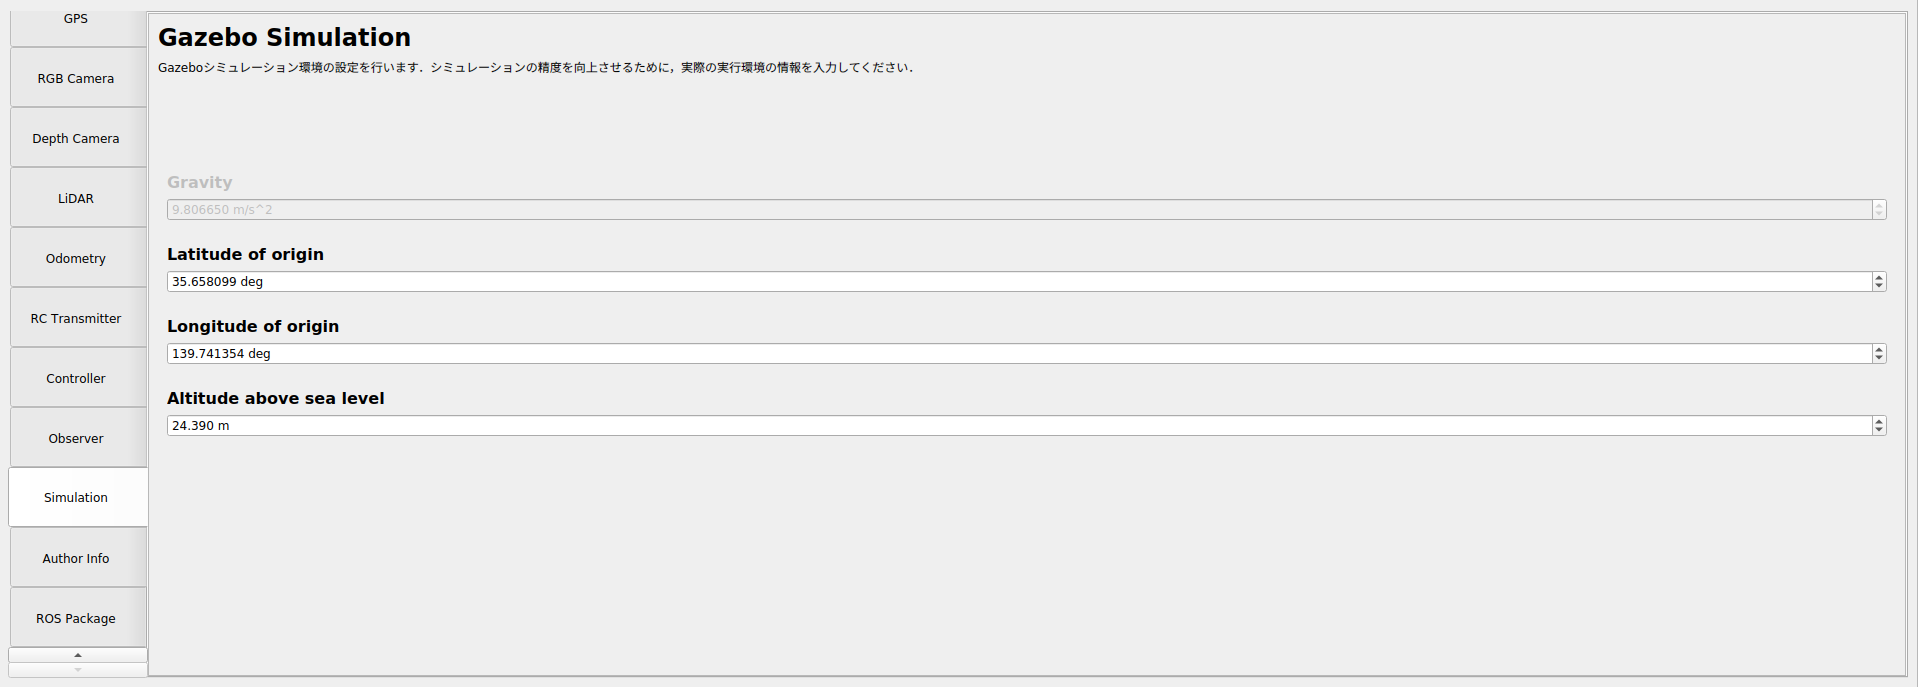
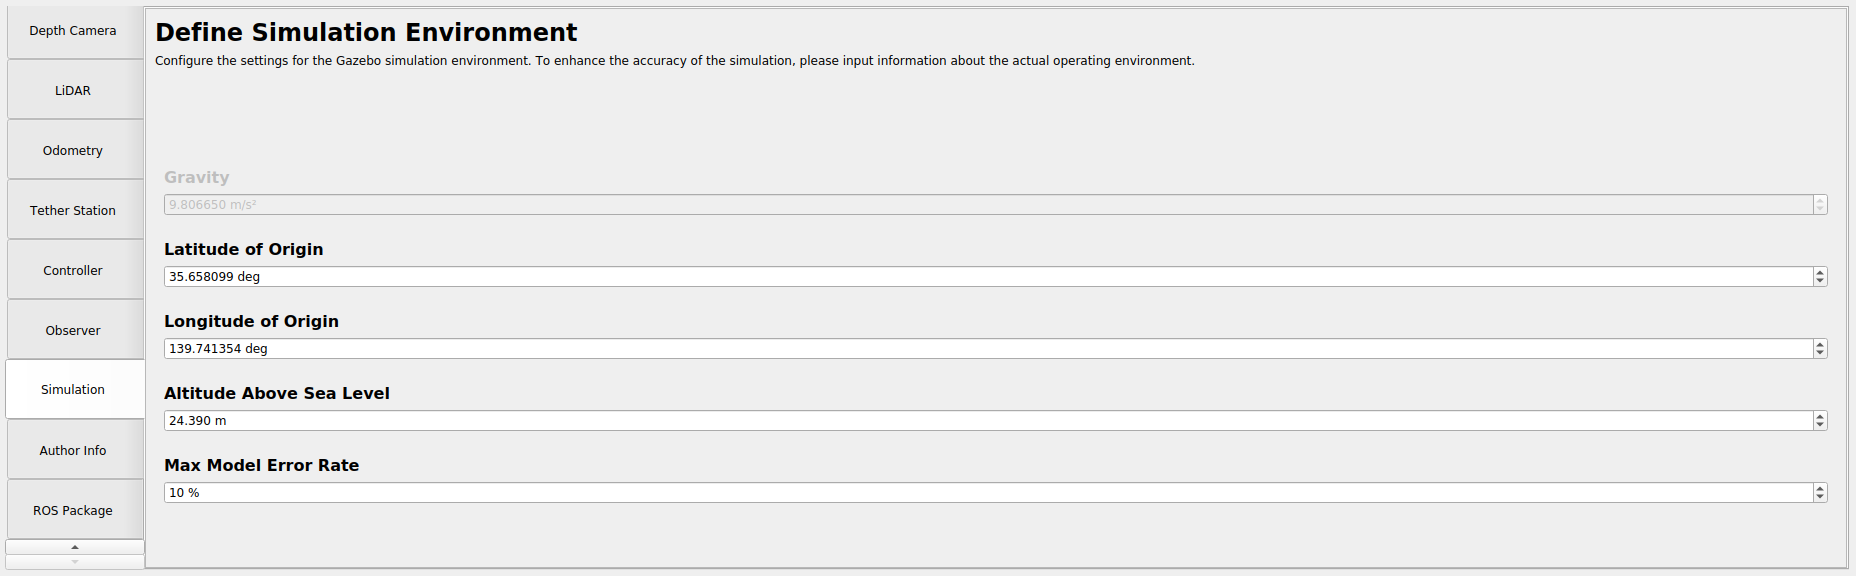
edit: setup_assistant

Changed region(s): [[0.0, 0.0, 1.0, 1.0], [0.9688, 0.8125, 1.0, 0.875], [0.9688, 0.6875, 1.0, 0.75]]

diff --git a/docs/setup_assistant.md b/docs/setup_assistant.md
@@ -11,6 +11,7 @@ Tobas を起動し，左上の選択リストから`Setup Assistant`を選択し
 
 ![start](resources/setup_assistant/start.png)
 
+`Create new Tobas configuration package`にチェックが入っていることを確認します．
 `Load`ボタンを押して先程作成した URDF を選択すると，URDF がロードされます．
 画面左上の`Frames Tree`にはリンク名がツリー状に表示されており，リンク名をクリックすると中央のモデルビューで対応するリンクがハイライトされます．
 画面右上には全ての可動関節名が表示されており，バーを動かすと中央のモデルビューで対応する関節角が変化します．
@@ -35,30 +36,33 @@ Tobas を起動し，左上の選択リストから`Setup Assistant`を選択し
 
 推進系 (プロペラ) の設定を行います．
 `Available Links`にプロペラとして利用可能なリンクが表示されています．
-表示されない場合は，URDF Builder でプロペラリンクのジョイントタイプが`Continuous`になっているかどうかを確認してください．
+表示されない場合は，URDF Builder でプロペラリンクのジョイントタイプが`Continuous`になっていることを確認してください．
 
-![propulsion_1](resources/setup_assistant/propulsion_1.png)
+![propulsion/available_links](resources/setup_assistant/propulsion/available_links.png)
 
 リンク名の右端の`Add`ボタンを押すと，モデルビューに推力方向が矢印で表示されると同時にそのプロペラの設定タブが追加されます．
 推力の向きが間違っている場合は，URDF Builder でジョイントの`Axis`を修正してください．
 
-![propulsion_2](resources/setup_assistant/propulsion_2.png)
+![propulsion/selected_links](resources/setup_assistant/propulsion/selected_links.png)
 
-`propeller1`の設定を行います．
-スペックシートを見ながら`ESC Settings`と`Blade Geometry`の各項目に適切な値を入力します．
+`propeller_0`リンクの設定を行います．
+各パーツのデータシートを見ながら，`ESC`，`Motor`，`Propeller`の各項目に適切な値を入力します．
 
-![propulsion_3](resources/setup_assistant/propulsion_3.png)
+![propulsion/esc](resources/setup_assistant/propulsion/esc.png)
+![propulsion/motor_1](resources/setup_assistant/propulsion/motor_1.png)
+![propulsion/motor_2](resources/setup_assistant/propulsion/motor_2.png)
+![propulsion/propeller](resources/setup_assistant/propulsion/propeller.png)
 
-`Motor Settings`ではモータのダイナミクスに関する設定を行います．
-複数の設定方法から選ぶことができ`Set from experimental data`が望ましいのですが，
-プロペラ込みのモータの実験データは持っていないため，今回は`Set from motor spec`を選択します．
-スペックシートを見ながら各項目に適切な値を入力します．
+`Electrodynamics`ではモータのダイナミクスに関する設定を行います．
+複数の設定方法から選ぶことができ`Estimate from Experimental Data`が望ましいのですが，
+プロペラ込みのモータの実験データは持っていないため，今回は`Estimate from Motor Spec`を選択します．
 
-![propulsion_4](resources/setup_assistant/propulsion_4.png)
+![propulsion/electrodynamics](resources/setup_assistant/propulsion/electrodynamics.png)
 
 `Aerodynamics`ではプロペラの空力特性の設定を行います．
-こちらも複数の設定方法から選ぶことができますが，精度の観点から`Set from blade geometry`は勧めません．
-今回は`Set from UIUC propeller data site`を選択します．
+こちらも複数の設定方法から選ぶことができ，
+精度の観点から`Estimate from Thrust Stand Data`または`Estimate from UIUC Propeller Data Site`が望ましいです．
+今回は`Estimate from UIUC Propeller Data Site`を選択します．
 <a href=https://m-selig.ae.illinois.edu/props/propDB.html target="_blank">UIUC Propeller Data Site</a>
 とは様々なプロペラの空力特性の実験データをまとめたサイトであり，
 例えば<a href=https://www.apcprop.com/ target="_blank">APC</a>のプロペラならば大抵のものはデータを得ることができます．
@@ -67,7 +71,7 @@ Tobas を起動し，左上の選択リストから`Setup Assistant`を選択し
 で代用します．
 Static データをテーブルに転記してください．
 
-![propulsion_5](resources/setup_assistant/propulsion_5.png)
+![propulsion/aerodynamics](resources/setup_assistant/propulsion/aerodynamics.png)
 
 以下のような CSV ファイルを作成して Load CSV からロードすることもできます:
 
@@ -93,7 +97,7 @@ RPM,CT,CP
 
 他の 3 枚のプロペラについても設定を行う必要がありますが，回転方向以外は同じなのでコピーします．
 左のタブから順にタブ上部の `Copy From Left` を押して左のタブの設定をコピーします．
-`propeller1`の設定が他のプロペラにも反映されていることを確認し，各プロペラの`Rotating Direction`を適切に設定します．
+`propeller_0`リンクの設定が他のプロペラリンクにも反映されていることを確認し，各プロペラの`Rotating Direction`を適切に設定します．
 リンク名と位置の対応がわからない場合は`Frames Tree`のハイライト機能を用いて確認してください．
 
 ## Fixed Wing
@@ -110,14 +114,14 @@ RPM,CT,CP
 推進系，固定翼駄面以外の関節の設定を行います．
 今回はプロペラ以外の可動関節は無いためパスします．
 
-## オンボードセンサ (IMU, Barometer, GPS)
+## オンボードセンサ (IMU, Barometer, GNSS)
 
 ---
 
 9 軸 IMU，気圧センサ，GPS はフライトコントローラに組み込まれています．
-基本的に設定はデフォルトで構いませんが，GNSS レシーバの位置がルートフレームから離れているため，今回 GPS のオフセットだけは修正します．
+基本的に設定はデフォルトで構いませんが，GNSS レシーバの位置がルートフレームから離れているため，今回は GNSS レシーバのオフセットのみ修正します．
 
-![gps](resources/setup_assistant/gps.png)
+![gnss](resources/setup_assistant/gnss.png)
 
 ## オプションデバイス (Camera, LiDAR, Odometry, Tether Station)
 
@@ -138,7 +142,9 @@ RPM,CT,CP
 ---
 
 制御器に関する設定を行います．
-選択リストをクリックすると使用可能な制御器が表示されます．
+選択リストを開くと制御器のリストが表示されます．
+URDF やこれまでの設定を元に使用可能な制御器が自動で判定されており，
+制御器名に`(Not Applicable)`と表示されていないもののみ使用することができます．
 今回は`Multirotor PID`を選択します．
 
 ![controller](resources/setup_assistant/controller.png)
@@ -158,6 +164,7 @@ Gazebo のシミュレーション環境の設定を行います．
 `Gravity`は標準重力加速度で固定されています．
 経緯度と海抜高度は，デフォルトでは日本経緯度原点と日本水準原点に設定されています．
 今回はさほど重要ではないためデフォルトのままとします．
+また，空力系のモデル化誤差の程度を設定でき，今回はこれもデフォルトのままとします．
 
 ![simulation](resources/setup_assistant/simulation.png)
 
@@ -175,6 +182,6 @@ Setup Assistant によって生成される Tobas パッケージの管理者の
 
 Tobas パッケージを生成するディレクトリとパッケージ名を設定します．
 `Parent Directory`を catkin ワークスペースの`src/`以下に設定し，`Package Name`に適当な名前を入力してください．
-`Generate`ボタンを押すと，指定したディレクトリに Tobas パッケージが生成されます．
+`Generate`ボタンを押すと，指定したディレクトリに Tobas パッケージ (\*.TBS) が生成されます．
 
 ![ros_package](resources/setup_assistant/ros_package.png)
